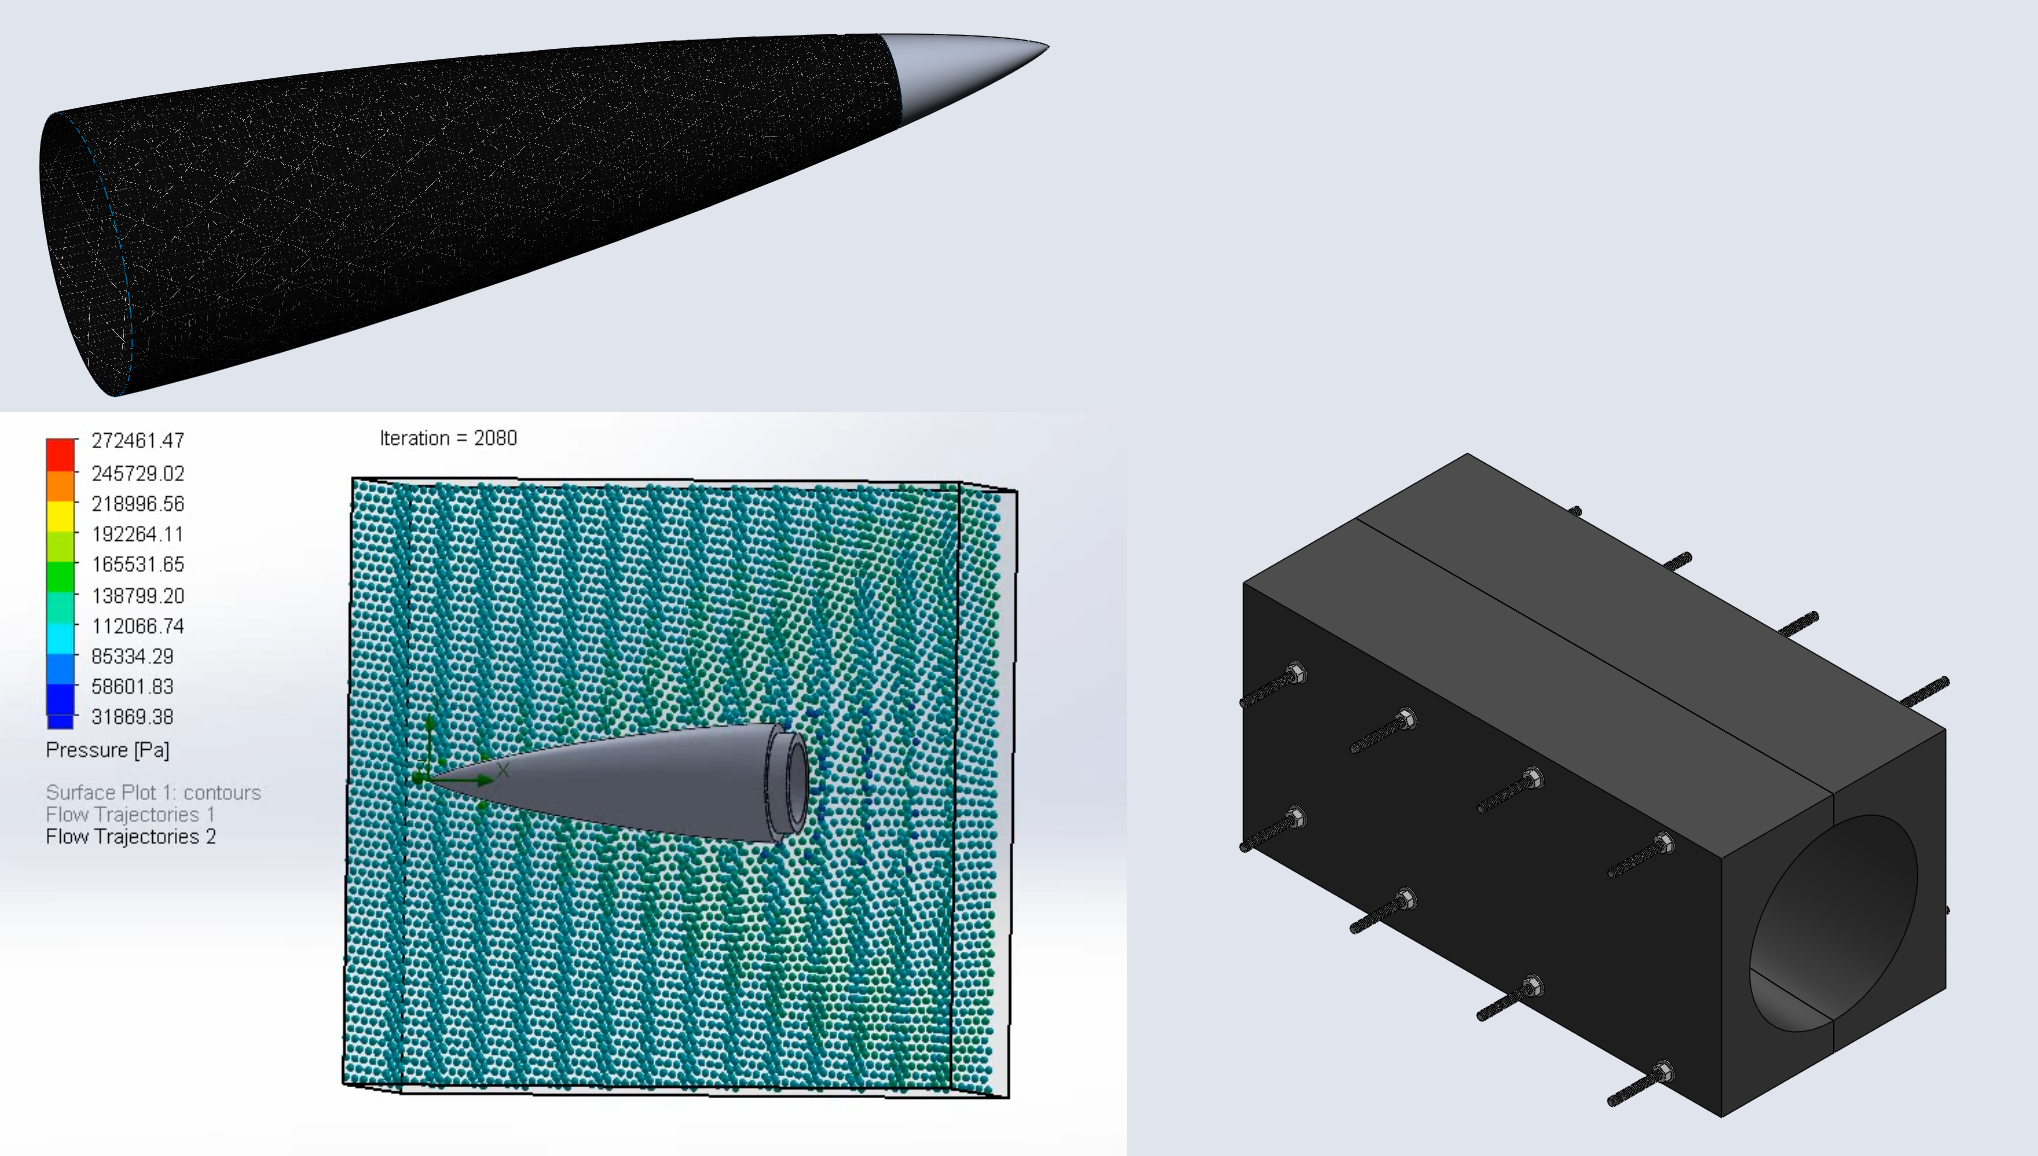
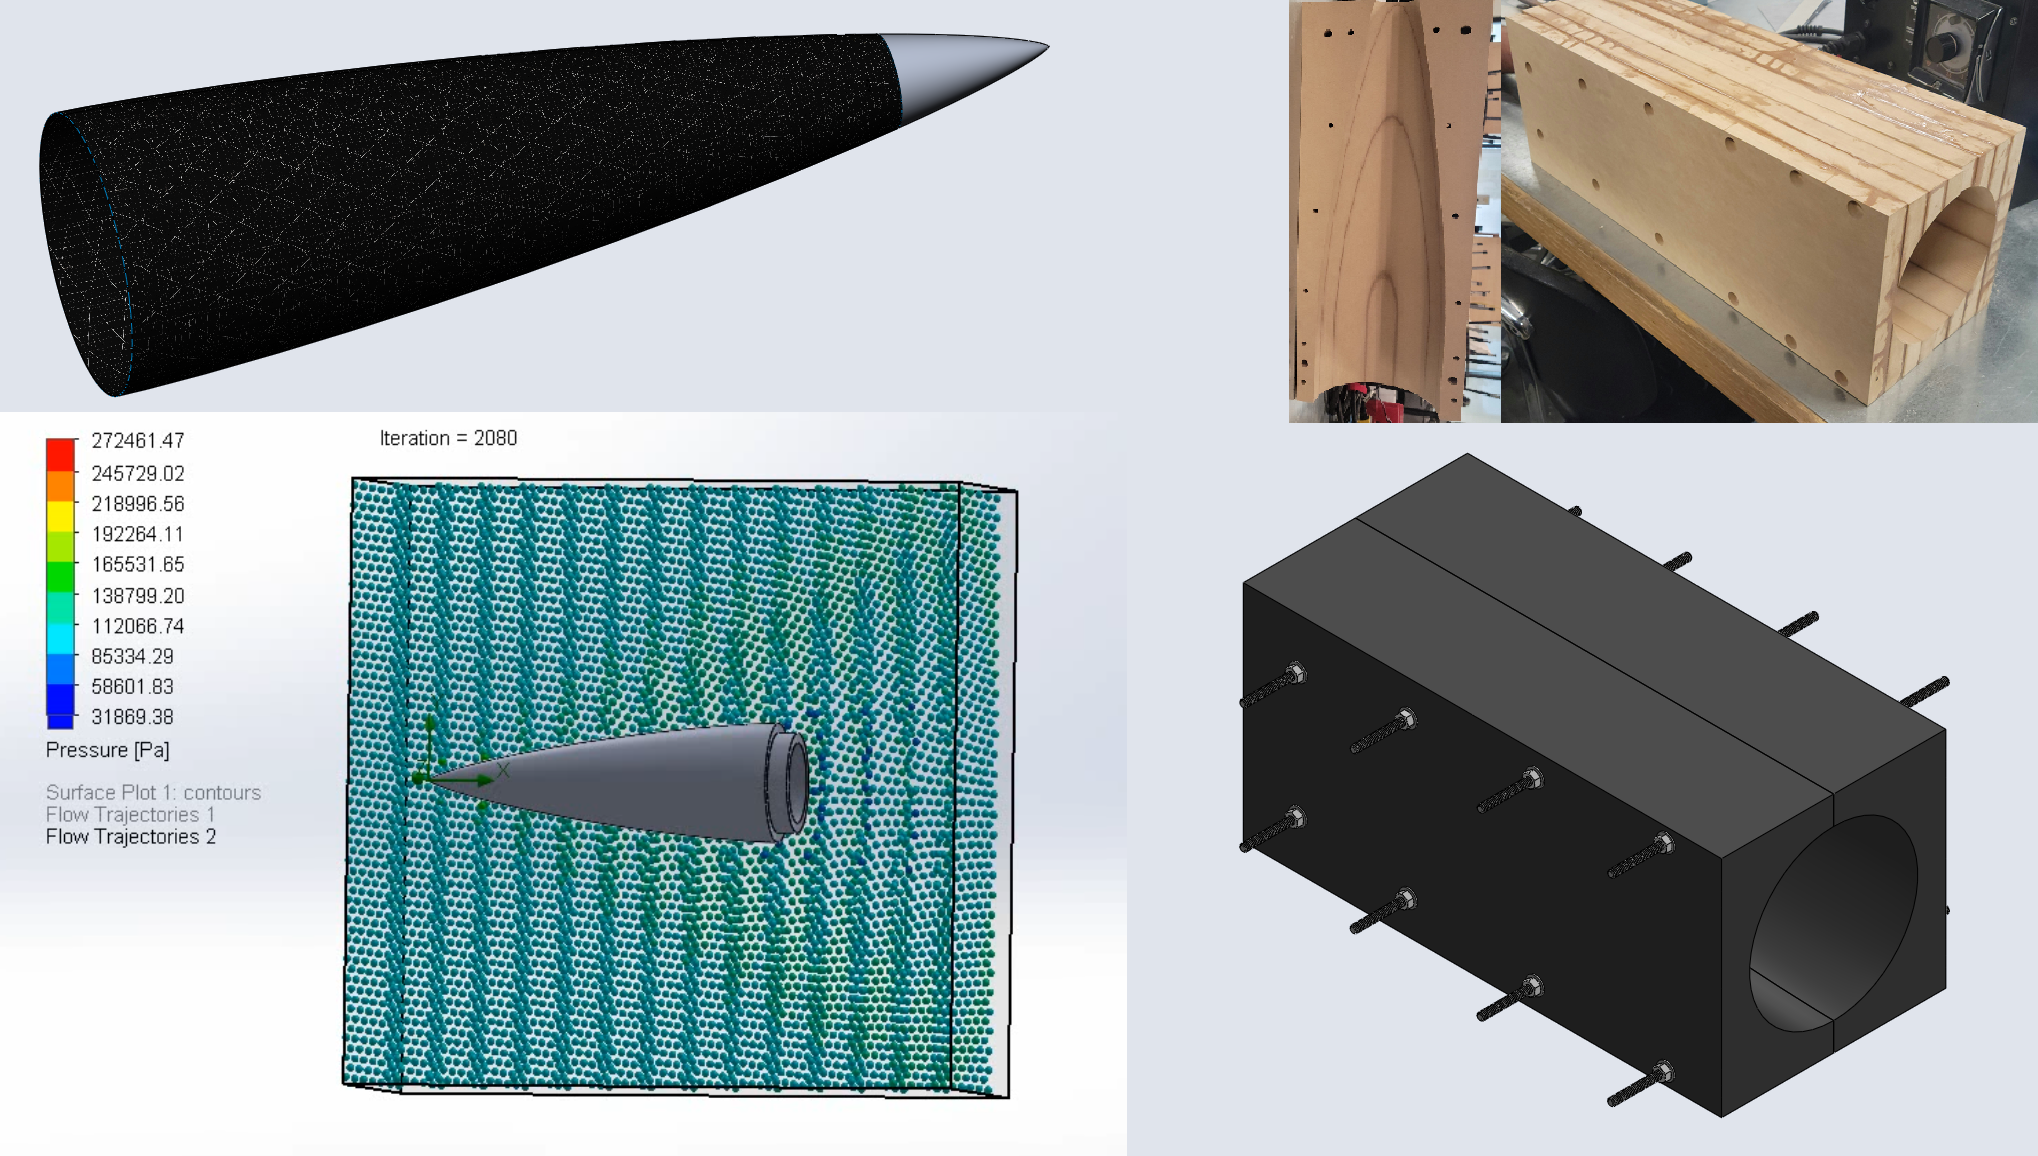
3131 Gear Train
added 3131 gear train

Changed region(s): [[0.6183, 0.0, 1.0, 0.3737]]

diff --git a/index.html b/index.html
@@ -101,7 +101,16 @@
 										Environmental Regulator
 									</div>
 									<div class = "text">
-										Designed especially for the consequences of COVID, the environmental regulator is an Arduino-based system which has a temperature, humidity, AQI (air-quality index) sensor. According to the current season and target temperature, this system will open the window to change the temperature and humidity, improve the AQI, and reduce the amount of carbon emissions of a room. 
+										Designed especially for the consequences of COVID, the environmental regulator is an Arduino-based system which has a temperature, humidity, AQI (air-quality index) sensor. According to the current season and target temperature, this system will open the window to change the temperature and humidity, improve the AQI, and reduce the amount of carbon emissions of a room.<br/><br/> 
+									</div>
+
+									<img class = "gear-train" src = "images/3131 gear train.jpg">
+									
+									<div class = "text-header">
+										Lateral Offset Geartrain Design
+									</div>
+									<div class = "text">
+										Along with 3 other students, a lateral offset geartrain had to be designed from the ground up, selecting certain parts (mainly the gears) from catalogues. Geartrain kinematics, tolerances, forces, drawings, component selection, component design, lubrication, FEA, as well as an engineering report all had to be done from scratch by the team. <br/>
 									</div>
 
 									<h2 class="major" ><br/><br/>Design</h2>

diff --git a/assets/css/style.css b/assets/css/style.css
@@ -86,6 +86,16 @@
 	transform: translateY(16px);
 }
 
+.gear-train{
+	width:300px;
+	height: auto;
+	float:right;
+	margin-left: 16px;
+	shape-outside: margin-box;
+	transform: translateY(-10px);
+}
+}
+
 .speaker-enclosureone{
 	width:240px;
 	height: auto;
@@ -96,11 +106,11 @@
 }
 
 .speaker-enclosuretwo{
-	width:210px;
-	height: auto;
+	width:645px;
+	height: 556px;
 	float:right;
 	shape-outside: margin-box;
-	transform: translateY(15px);
+	transform: translateY(0px);
 }
 
 .humidor{
